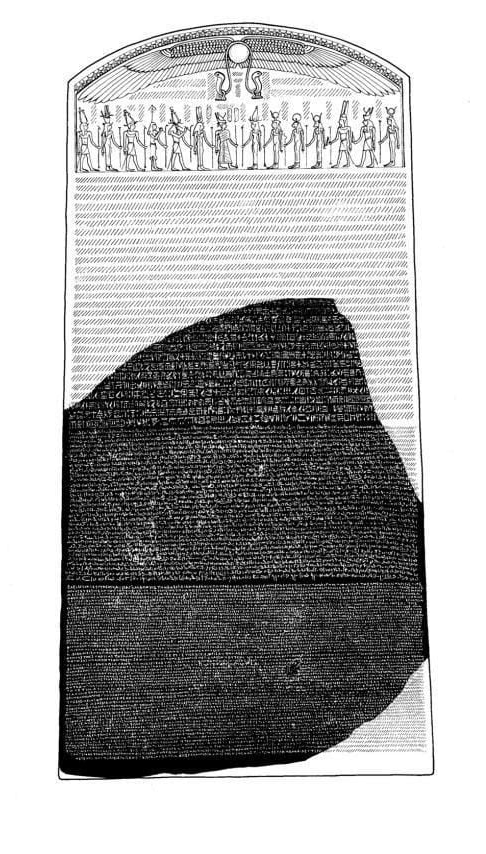
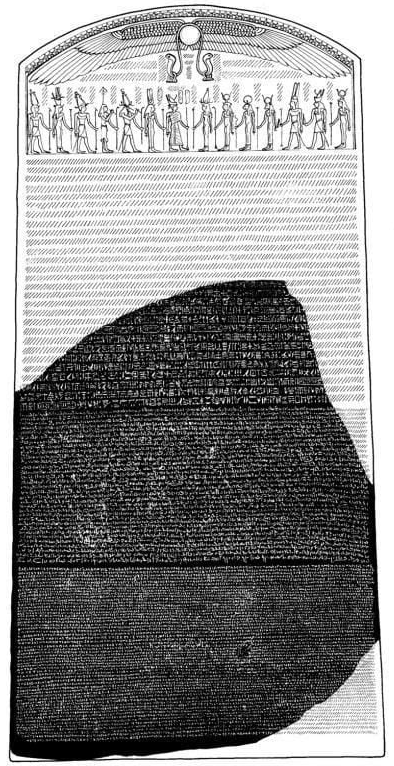
Consolidate figures of Rosetta stone.

diff --git a/ancient/ancient-zh-cn.tex b/ancient/ancient-zh-cn.tex
@@ -32,7 +32,7 @@
 \numberwithin{Exercise}{chapter}
 \fi
 
-\epigraph{一二三四五，金木水火土。\\ 
+\epigraph{一二三四五，金木水火土。\\
 天地分上下，日月照今古。}{部编小学一年级\\
 语文课本第一课}
 
@@ -42,16 +42,17 @@
 
 \section{罗塞塔石碑}
 
-走进大英博物馆第4展厅，有一件展品吸引着观众。这是一块残缺的石碑，长114厘米，宽72厘米，上面刻满了文字（\cref{fig:rosetta-stone}）。人们能一眼辨认出有一部分是希腊字母（\cref{fig:rosetta-greek}，参见\cref{ch:greek-letters}希腊字母表），但剩下的部分犹如天书。仔细观察会发现余下的文字大致分成两种，一种是弯弯曲曲的符号，如\cref{fig:rosetta-demotic}，另一种是奇妙的图案，如\cref{fig:rosetta-hieroglyphs}。
-
-这一展品叫做罗塞塔石碑。1799年法军远征埃及。拿破仑还随军带有一群厉害的数学家。这位未来的法兰西皇帝，从一名炮兵军官脱颖而出。他敏锐地看出数学不仅可以算出大炮的弹道，还关乎法兰西的国运。7月15日，一位士兵在尼罗河三角洲前线的小镇罗塞塔（Rosetta）发掘防御工事。他偶然发现了一块断碑砌在一段古老的墙中。尽管并不完整（如\cref{fig:rosetta-stone-recons}）,这仍是一个重大的发现。1801年，英军击败了拿破仑，罗塞塔石碑也落入了英军之手。1802年2月，它被运抵英国朴次茅斯港，并最终收藏于大英博物馆。
-
 \begin{figure}[htbp]
  \centering
- \includegraphics[scale=0.4]{img/rosetta-stone}
- \caption{罗赛塔石碑，古埃及，公元前196年}
- \label{fig:rosetta-stone}
+ \includegraphics[scale=1.0]{img/Rosetta-stone-recons}
+ \caption{古埃及罗赛塔石碑。石碑不完整，从中间断裂。}
+ \label{fig:rosetta-stone-recons}
 \end{figure}
+
+走进大英博物馆第4展厅，有一件展品吸引着观众。这是一块残缺的石碑，长114厘米，宽72厘米，上面刻满了文字（\cref{fig:rosetta-stone-recons}）。人们能一眼辨认出有一部分是希腊字母（\cref{fig:rosetta-greek}，参见\cref{ch:greek-letters}希腊字母表），但剩下的部分犹如天书。仔细观察会发现余下的文字大致分成两种，一种是弯弯曲曲的符号，如\cref{fig:rosetta-demotic}，另一种是奇妙的图案，如\cref{fig:rosetta-hieroglyphs}。
+
+这一展品叫做罗塞塔石碑。1799年法军远征埃及。拿破仑还随军带着一群厉害的数学家。这位未来的法兰西皇帝从一名炮兵军官脱颖而出。他敏锐地看出数学不仅可以算出大炮的弹道，还关乎法兰西的国运。7月15日，一位士兵在尼罗河三角洲前线的小镇罗塞塔（Rosetta）发掘防御工事。他偶然发现了一块断碑砌在一段古老的墙中。尽管并不完整，这仍是一个重大的发现。1801年，英军击败了拿破仑，罗塞塔石碑也落入了英军之手。1802年2月，它被运抵英国朴次茅斯港，并最终收藏于大英博物馆。
+
 
 \begin{figure}[htbp]
   \centering
@@ -60,13 +61,6 @@
   \subcaptionbox{古埃及象形文字，共14行\label{fig:rosetta-hieroglyphs}}{\includegraphics[scale=0.6]{img/Rosetta-Hieroglyphs}}
   \caption{罗赛塔石碑上的三种文字}
   \label{fig:rosetta-stone}
- \end{figure}
- 
- \begin{figure}[htbp]
-  \centering
-  \includegraphics[scale=0.4]{img/Rosetta-stone-recons}
-  \caption{罗赛塔石碑并不完整，从中间断裂。}
-  \label{fig:rosetta-stone-recons}
  \end{figure}
 
 \ifx\wholebook\relax \else
